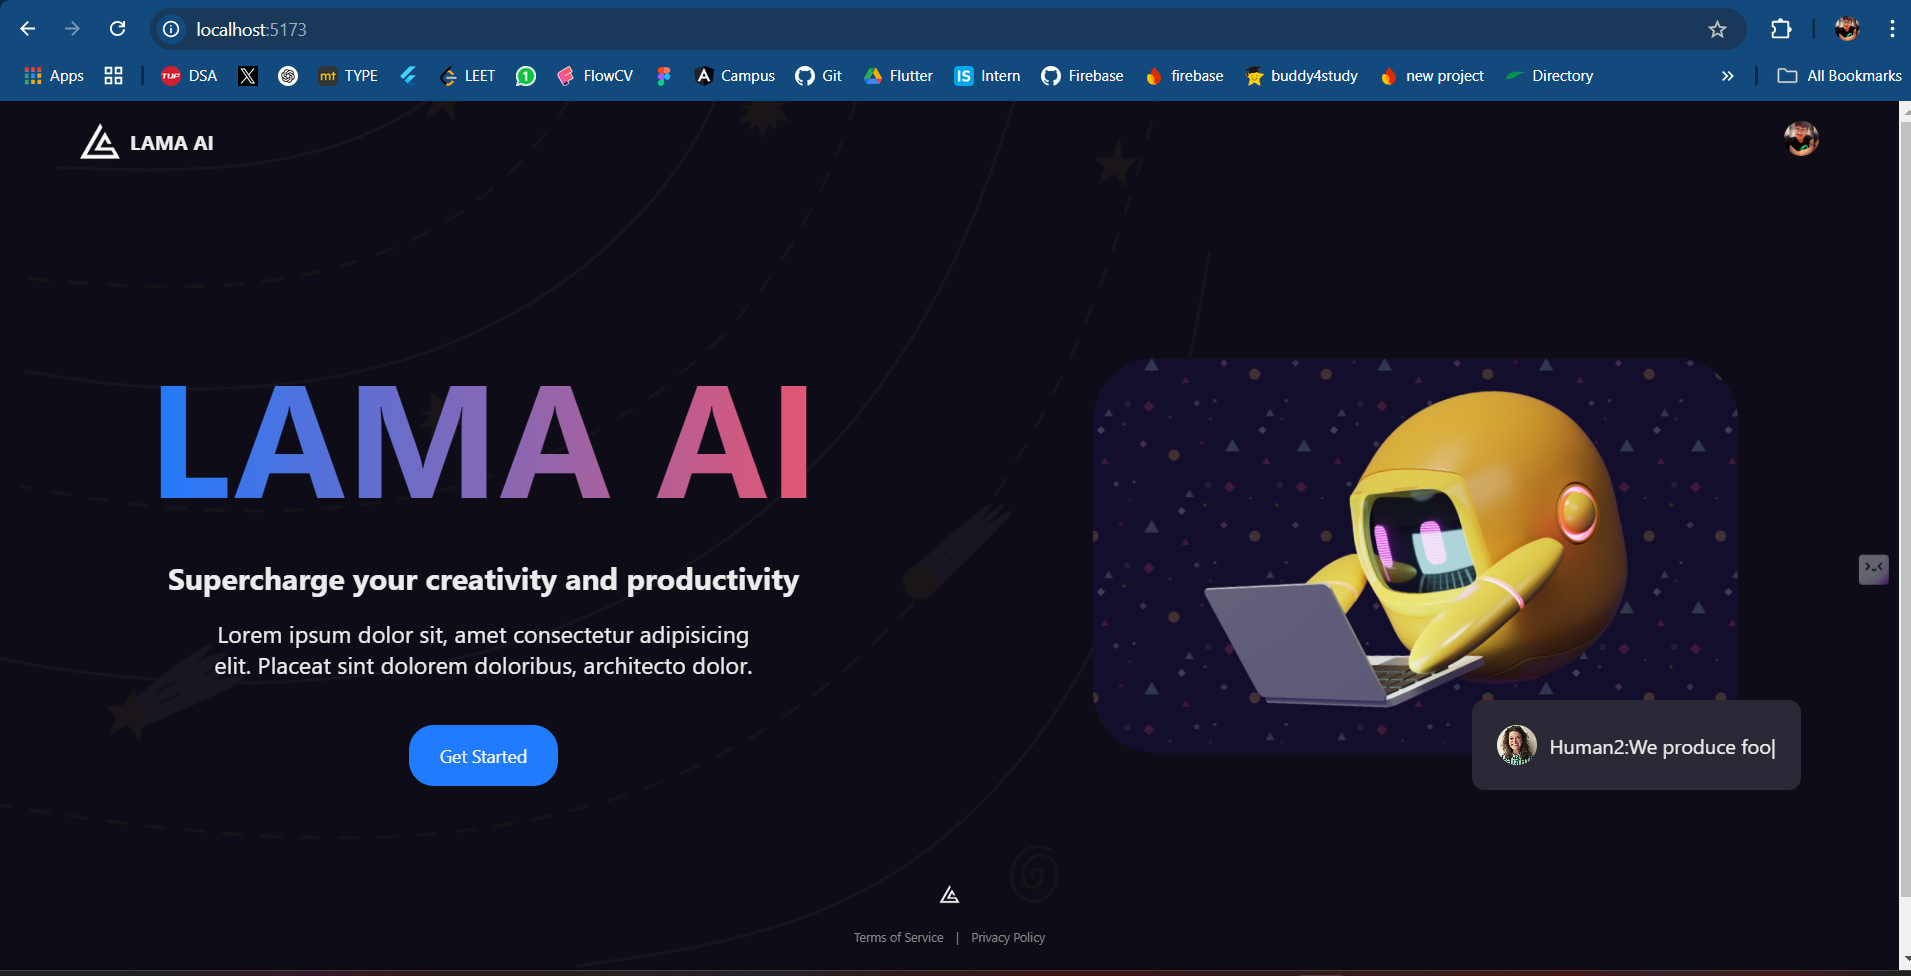
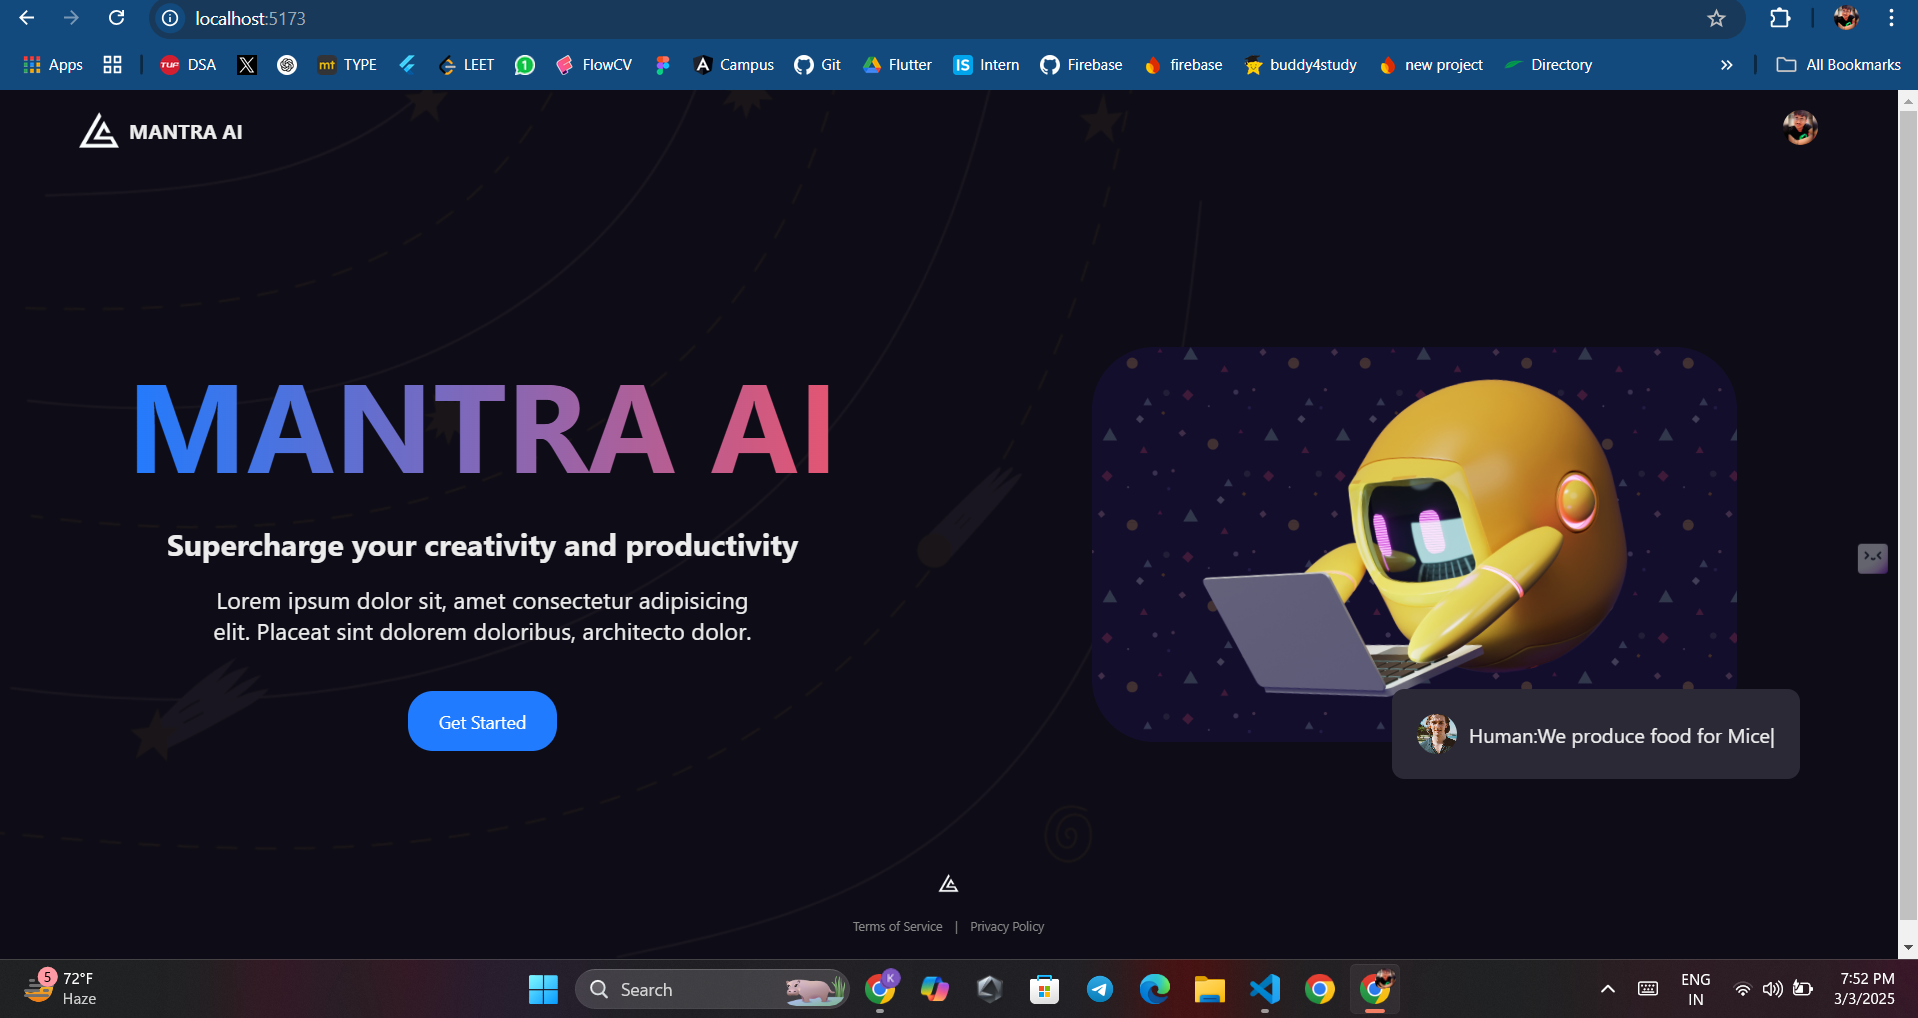
update_image

diff --git a/client/src/routes/homepage/Homepage.jsx b/client/src/routes/homepage/Homepage.jsx
@@ -11,7 +11,7 @@ const Homepage = () => {
         <div className="homepage">
             <img src="/orbital.png" alt="" className="orbital" />
             <div className="left">
-                <h1>LAMA AI</h1>
+                <h1>MANTRA AI</h1>
                 <h2>Supercharge your creativity and productivity</h2>
                 <h3>
                     Lorem ipsum dolor sit, amet consectetur adipisicing elit. Placeat sint

diff --git a/client/src/layouts/rootLayout/RootLayout.jsx b/client/src/layouts/rootLayout/RootLayout.jsx
@@ -24,7 +24,7 @@ const RootLayout = () => {
                     <header>
                         <Link to="/" className="logo">
                             <img src="/logo.png" alt="" />
-                            <span>LAMA AI</span>
+                            <span>MANTRA AI</span>
                         </Link>
                         <div className="user">
 

diff --git a/client/src/routes/dashboardPage/DashboardPage.jsx b/client/src/routes/dashboardPage/DashboardPage.jsx
@@ -37,7 +37,7 @@ const DashboardPage = () => {
             <div className="texts">
                 <div className="logo">
                     <img src="/logo.png" alt="" />
-                    <h1>LAMA AI</h1>
+                    <h1>MANTRA AI</h1>
                 </div>
                 <div className="options">
                     <div className="option">

diff --git a/client/src/routes/homepage/homepage.css b/client/src/routes/homepage/homepage.css
@@ -19,7 +19,7 @@
         text-align: center;
 
         h1 {
-            font-size: 128px;
+            font-size: 100px;
             background: linear-gradient(to right, #217bfe, #e55571);
             background-clip: text;
             -webkit-background-clip: text;
